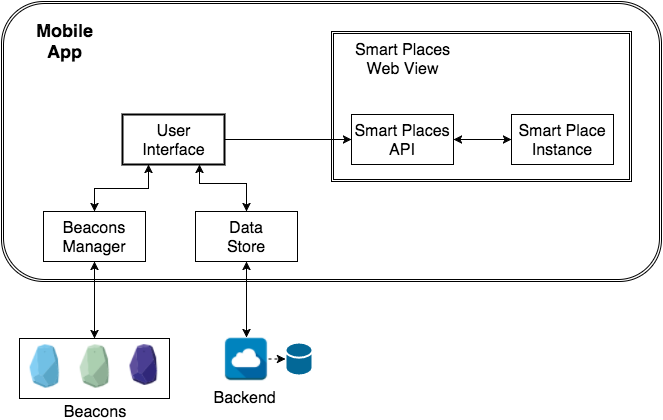
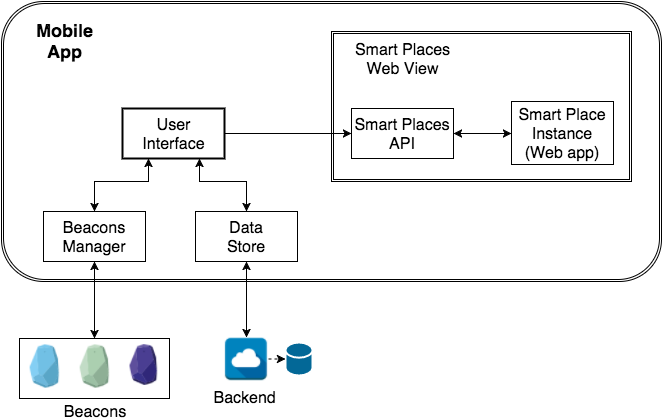
Improved Implementation chapter. Closes #176

Changed region(s): [[0.3318, 0.2476, 0.9351, 0.4024], [0.181, 0.2476, 0.362, 0.4333]]

diff --git a/dissertation/chapters/implementation.tex b/dissertation/chapters/implementation.tex
@@ -54,6 +54,9 @@ This way, any web application can react to the existence of tags in a Smart Plac
 % WebView...
 Having Smart Places as web applications accessed by the users mobile app, introduced in chapter \ref{chapter:solution} section \ref{sec:solution_mobile_app_for_end_users}, is achieved by using the WebView\footnote{http://developer.android.com/guide/webapps/webview.html} which is a widget provided by the Android \gls{SDK} that allows to have web pages embedded inside any \gls{UI} in an Android application.
 Smart Places are web applications that run in a WebView in the users mobile app.
+For instance, the Smart Restaurant and Smart Museum examples run in this WebView.
+Users do not need to install two different apps.
+Using our mobile app they can access any of these examples.
 
 % Data from native app to smart place running inside web view
 Since we chose web apps as the mean to support Smart Places somehow, they need to be able to detect nearby tags.
@@ -150,11 +153,11 @@ a number, a boolean, a pointer to another object, a \gls{JSON} object, etc.
 \label{sub:implementation_tools_android_apps}
 For the Android apps, we have used the following tools:
 \begin{description}
+  \item[Java] was the programming language that was used to write the code of the mobile apps;
+  \item[Gradle] \footnote{http://gradle.org} is a build and dependency management tool for Java projects. Using Android Studio, any Android project already includes this tool and a configuration file where all the dependencies are specified;
   \item[Android Studio] \footnote{http://developer.android.com/sdk/index.html} is an \gls{IDE}, based on IntelliJ\footnote{http://www.jetbrains.com/idea},
   to develop Android
-  applications;
-  \item[Gradle] \footnote{http://gradle.org} is a build and dependency management tool for Java projects. Using Android Studio, any Android project already includes this tool and a configuration file where all the dependencies are specified.
-  \item[Java] was the programming language that was used to write the code of the mobile apps.
+  applications.
 \end{description}
 
 \subsection{Developers \gls{API} and Examples}
@@ -189,6 +192,10 @@ However, instead of integrating this cloud service with our backend, we copied t
     \caption[Estimote beacons]{Beacons from Estimote, that were used during the implementation}
     \label{fig:estimote}
 \end{figure}
+
+% Hugly Hack!
+% Just to force the next section to start only after the previous figure
+\vfill
 
 \section{Backend}
 \label{sec:implementation_backend}
@@ -249,7 +256,17 @@ one project was created, with 2 apps and one library, as shown in figure
 of the mobile device and make requests to the backend, there is a library,
 that both apps depend on that offers some abstractions around the ibeacon
 protocol and the communication with Parse.
-Its implementation is detailed in section \ref{sub:implementation_library}
+Its implementation is detailed in section \ref{sub:implementation_library}.
+This Android project depends on the following librarys:
+\begin{description}
+  \item[AltBeacon]\footnote{http://github.com/AltBeacon/android-beacon-library}
+  is a library that provides \glspl{API} to interact with beacons.
+  We used this in our \emph{smartplaceslib} to provide operations such as scanning for nearby beacons;
+  \item[Parse Android \gls{SDK}]\footnote{http://parse.com/docs/android/guide}
+  was used to interact with our Backend;
+  \item[Facebook \gls{SDK}]\footnote{http://developers.facebook.com/docs/android}
+  was used to provide authentication using user's Facebook account in the owners mobile app.
+\end{description}
 
 \begin{figure}[!ht]
   \centering
@@ -337,7 +354,7 @@ This \gls{API} offer a global object, which is \emph{SmartPlaces}, with several 
 This library was developed in a modular way, that is, there are multiple javascript files that in the end, in the build process, are compiled in just one file.
 To manage this build process we used Grunt. There is a task that compiles all javascript files in just one, performs minification of that file and creates a new version, that is, creates a new tag in the repository and pushes those changes to it.
 
-\section{Examples}
+\section{Implementation of Examples}
 \label{sec:implementation_examples}
 In order to make sure that the Javascript \gls{API} works as expected and that it can be applied to multiple kinds of smart places, two examples were implemented.
 These examples try to be a proof of concept, that is, demonstrate that using the Javascript API a web application can be aware of nearby tags, in the real world, and execute useful computation using those tags.
@@ -387,11 +404,6 @@ Here, we looked at each component and described its implementation.
 First we introduced important decisions about the implementation of our Smart Places solution.
 Then, we described the architecture and its main components.
 We summarized the tools used in the development of this solution.
-Android Studio was used to develop the two mobile apps, for owners and end users.
-For the developers \gls{API} and the Smart Restaurant and Smart Museum examples, Grunt and Bower were used.
-Grunt is a tool to manage the build process of frontend assets, such as, Javascript files.
-There are many tasks to handle Javascript files concatenation and minification.
-Bower is a dependency management tool for frontend dependencies that allows developers to specify the dependencies of their web applications instead of downloading each one manually.
 
 % Tags
 % -> Chose BLE beacons
@@ -403,8 +415,7 @@ Our solution does not require the user to acquire any extra hardware besides his
 % Backend
 % -> Used Parse BaaS
 % -> Brief domain model
-Our solution stores information in a backend.
-Instead of developing this component from the scratch we have used a \gls{BaaS}, which allowed us to only be concerned about the data model and not with the typical concerns of a distributed system such as, scalability, performance and deployment.
+Our solution stores information in a backend using Parse \gls{BaaS} allowing us to only be concerned about the data model and not with the typical concerns of a distributed system such as, scalability, performance and deployment.
 In our data model, there is the concept of Smart Place. When owners configure a given Smart Place they are creating a Smart Place Instance.
 Smart Place Instances have tags which are represented by beacons.
 
@@ -412,26 +423,13 @@ Smart Place Instances have tags which are represented by beacons.
 % -> Native vs Web
 % -> Why web
 Smart Places provide proximity-based services that could be supported through native or web apps.
-Native apps are installed on the mobile device's \gls{OS} and only run on the \gls{OS} they are developed for.
-Web apps run on any platform where a web browser can run.
 We discussed the advantages and limitations of native and web apps.
 The final decision was to have an embedded web browser, inside the mobile app for end users, that would allow to have access to any Smart Place without requiring users to install a native app for each one.
-The mobile app scans for nearby beacons and send the needed data to the Smart Place, running inside the embedded web browser.
-
-% Mobile applications
-% -> library (what and why)
-% -> Mobile app for owners (used library, Android Studio)
-% -> Mobile app for end users (used library, Android Studio)
-We have used Android Studio to develop the two mobile apps.
-However, both apps needed to scan for nearby beacons and make requests to the backend.
-Inside the same project, we create a library, from which the two apps depend, in order to avoid having repeated code in both apps.
 
 % Developers API
 % -> JS library
 % -> Why JS
-Since Smart Places are web apps, we have developed a Javascript library.
-This library offers an \gls{API} to handle the events sent by the mobile apps, for instance, when a tag is found.
-Due to the fact that the mobile apps send events to the Smart Place running in the embedded web browser, this \gls{API} is asynchronous and its methods require callback functions as arguments.
+We have developed a Javascript library that offers an \gls{API} to handle the events sent by the mobile apps, for instance, when a tag is found.
 
 % Examples
 % -> Introduced in previous chapters
